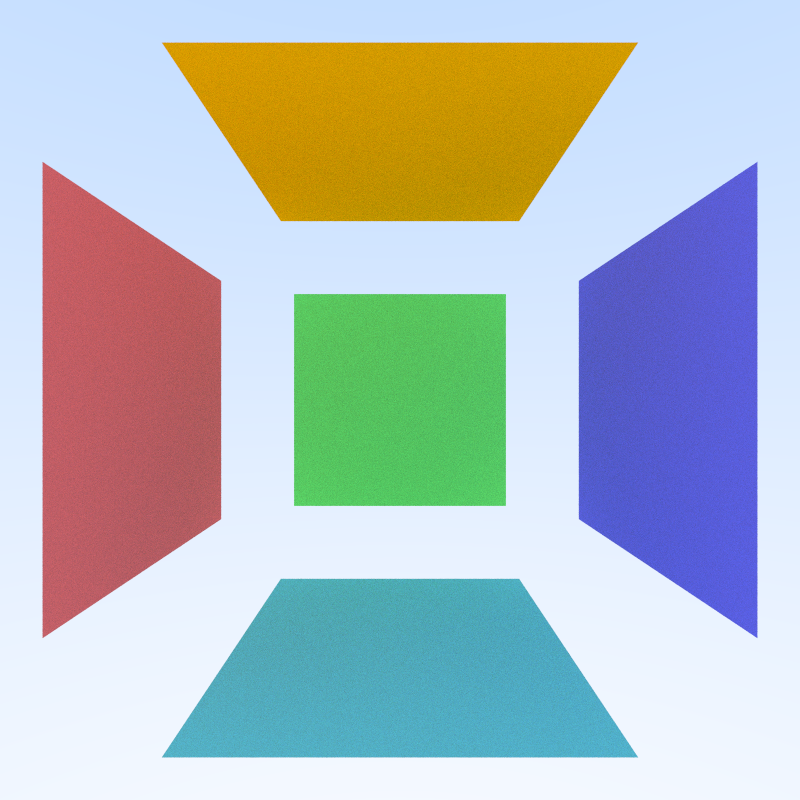
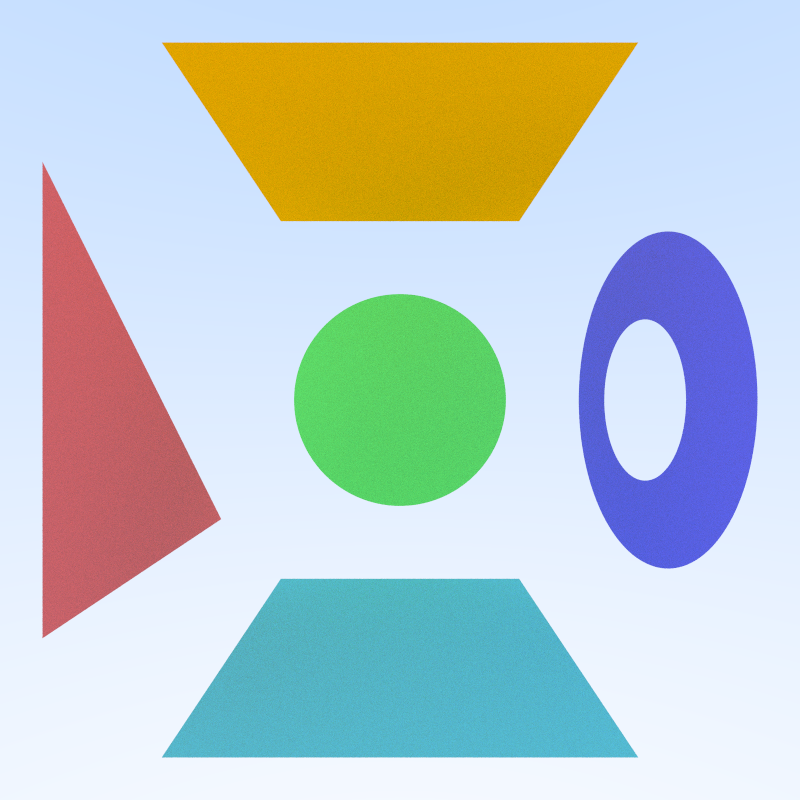
adding more shapes to quads

diff --git a/src/hit.rs b/src/hit.rs
@@ -260,6 +260,8 @@ impl Sphere {
     }
 }
 
+/// An oriented 2D quadilateral that can optionally be set to return some subregion
+/// rather than the entire surface.
 #[derive(Debug, Clone)]
 pub struct Quad {
     q: P3,
@@ -269,11 +271,39 @@ pub struct Quad {
     normal: V3,
     d: f64,
     mat: Material,
+    shape: QuadShape,
     bbox: AABBox,
 }
 
 impl Quad {
     pub fn new(q: P3, u: V3, v: V3, mat: Material) -> Quad {
+        Self::new_with_shape(q, u, v, mat, QuadShape::Quad)
+    }
+
+    pub fn new_triangle(q: P3, u: V3, v: V3, mat: Material) -> Quad {
+        Self::new_with_shape(q, u, v, mat, QuadShape::Triangle)
+    }
+
+    /// Radius needs to be 0..1
+    pub fn new_disk(q: P3, u: V3, v: V3, r: f64, mat: Material) -> Quad {
+        let shape = QuadShape::Disk {
+            r2: (r / 2.0).powi(2),
+        };
+
+        Self::new_with_shape(q, u, v, mat, shape)
+    }
+
+    /// Radii needs to be 0..1
+    pub fn new_ring(q: P3, u: V3, v: V3, r1: f64, r2: f64, mat: Material) -> Quad {
+        let shape = QuadShape::Ring {
+            r1_2: (r1 / 2.0).powi(2),
+            r2_2: (r2 / 2.0).powi(2),
+        };
+
+        Self::new_with_shape(q, u, v, mat, shape)
+    }
+
+    fn new_with_shape(q: P3, u: V3, v: V3, mat: Material, shape: QuadShape) -> Quad {
         let diag1 = AABBox::new_from_points(q, q + u + v);
         let diag2 = AABBox::new_from_points(q + u, q + v);
         let bbox = AABBox::new_enclosing(diag1, diag2);
@@ -291,6 +321,7 @@ impl Quad {
             normal,
             d,
             mat,
+            shape,
             bbox,
         }
     }
@@ -311,8 +342,8 @@ impl Quad {
         let alpha = self.w.dot(&planar_hitp.cross(&self.v));
         let beta = self.w.dot(&self.u.cross(&planar_hitp));
 
-        if !Interval::UNIT.contains(alpha) || !Interval::UNIT.contains(beta) {
-            return None; // intersects our plane but not enclosed region
+        if !self.shape.hits_surface(alpha, beta) {
+            return None;
         }
 
         Some(HitRecord::new(
@@ -324,6 +355,29 @@ impl Quad {
             alpha,
             beta,
         ))
+    }
+}
+
+#[derive(Debug, Clone, Copy)]
+enum QuadShape {
+    Quad,
+    Triangle,
+    Disk { r2: f64 },
+    Ring { r1_2: f64, r2_2: f64 },
+}
+
+impl QuadShape {
+    // u,v surface coordinates are [0,1]x[1,0]
+    fn hits_surface(&self, alpha: f64, beta: f64) -> bool {
+        match self {
+            Self::Quad => Interval::UNIT.contains(alpha) && Interval::UNIT.contains(beta),
+            Self::Disk { r2 } => (alpha - 0.5).powi(2) + (beta - 0.5).powi(2) < *r2,
+            Self::Ring { r1_2, r2_2 } => {
+                let p = (alpha - 0.5).powi(2) + (beta - 0.5).powi(2);
+                p > *r2_2 && p < *r1_2
+            }
+            Self::Triangle => alpha > 0. && beta > 0. && alpha + beta < 1.,
+        }
     }
 }
 

diff --git a/src/main.rs b/src/main.rs
@@ -273,7 +273,7 @@ pub fn quads() -> (Vec<Hittable>, Camera) {
     let teal = Material::solid_color(Color::new(0.2, 0.8, 0.8));
 
     hittables.push(
-        Quad::new(
+        Quad::new_triangle(
             P3::new(-3., -2., 5.),
             V3::new(0., 0., -4.),
             V3::new(0., 4., 0.),
@@ -282,19 +282,22 @@ pub fn quads() -> (Vec<Hittable>, Camera) {
         .into(),
     );
     hittables.push(
-        Quad::new(
+        Quad::new_disk(
             P3::new(-2., -2., 0.),
             V3::new(4., 0., 0.),
             V3::new(0., 4., 0.),
+            1.0,
             green,
         )
         .into(),
     );
     hittables.push(
-        Quad::new(
+        Quad::new_ring(
             P3::new(3., -2., 1.),
             V3::new(0., 0., 4.),
             V3::new(0., 4., 0.),
+            1.0,
+            0.5,
             blue,
         )
         .into(),
